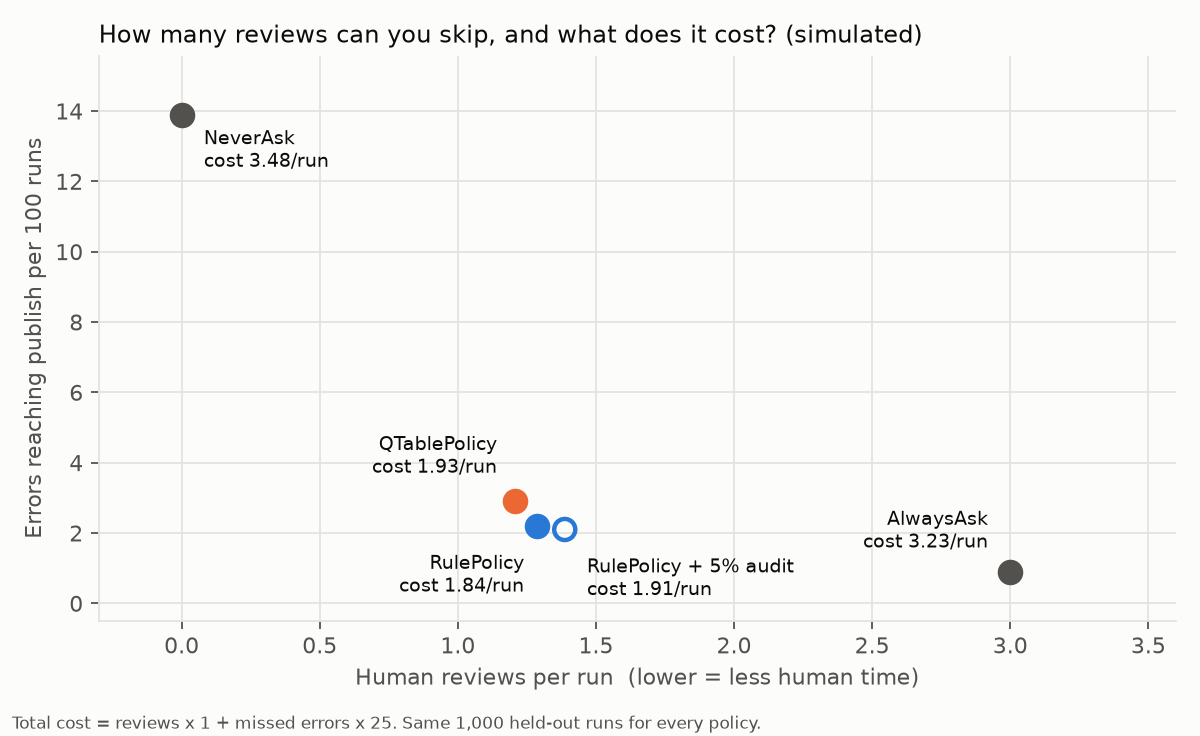
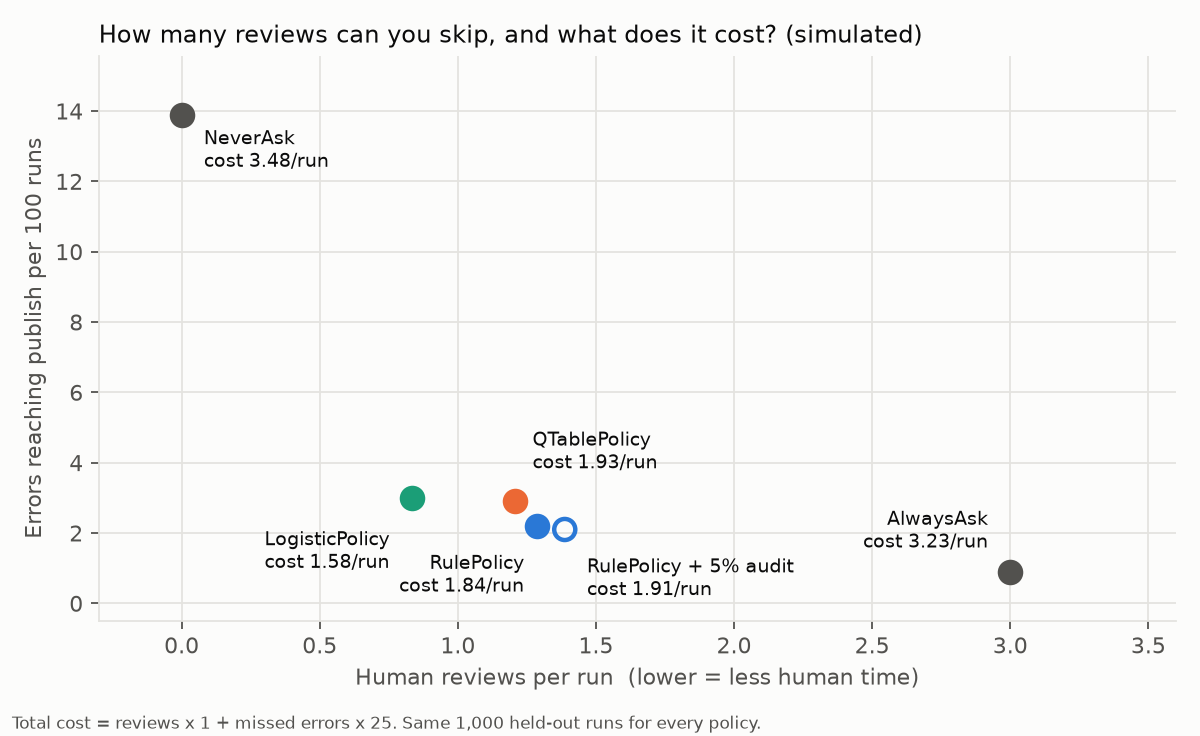
Add LogisticPolicy: per-item error probability with a cost threshold, pooled across gates (0.3.0)

Changed region(s): [[0.3083, 0.5625, 0.555, 0.6875], [0.2158, 0.7188, 0.3392, 0.7812]]

diff --git a/src/hitl_gate/policies.py b/src/hitl_gate/policies.py
@@ -4,6 +4,7 @@ from __future__ import annotations
 
 import bisect
 import json
+import math
 import random
 from collections import defaultdict
 from pathlib import Path
@@ -37,6 +38,19 @@ class NeverAsk:
 
     def decide(self, gate_id: str, features: dict) -> tuple[bool, str]:
         return False, "never ask"
+
+
+def _miss_label(r: DecisionRecord, count_downstream_errors: bool = True) -> bool | None:
+    """Training label shared by the fitted policies; ``None`` = not evidence either way.
+
+    A *miss* is a reviewed record the human changed, or — with ``count_downstream_errors`` —
+    any record (reviewed or auto-passed) that later failed downstream (rubber-stamp protection).
+    An un-reviewed auto pass with no downstream error is not evidence of correctness.
+    """
+    downstream = count_downstream_errors and bool(r.downstream_error)
+    if r.asked:
+        return bool(r.changed) or downstream
+    return True if downstream else None
 
 
 def _bucket(gate_id: str, features: dict, keys: Iterable[str]) -> tuple:
@@ -84,13 +98,9 @@ class RulePolicy:
             keys = sorted({k for r in records for k in r.features})
         stats: dict = defaultdict(lambda: [0, 0])
         for r in records:
-            downstream = count_downstream_errors and bool(r.downstream_error)
-            if r.asked:
-                miss = bool(r.changed) or downstream
-            elif downstream:
-                miss = True
-            else:
-                continue  # an un-reviewed auto pass is not evidence of correctness
+            miss = _miss_label(r, count_downstream_errors)
+            if miss is None:
+                continue
             s = stats[_bucket(r.gate_id, r.features, keys)]
             s[0] += 1
             s[1] += miss
@@ -217,3 +227,113 @@ class QTablePolicy:
         p.q = data["q"]
         p.n = data.get("n", {})  # files from 0.1.0 have no counts
         return p
+
+
+def _encode(gate_id: str, features: dict) -> dict:
+    """Sparse feature map: numbers stay numeric, everything else one-hot; plus a per-gate intercept."""
+    x = {"__gate__=" + gate_id: 1.0}
+    for k, v in features.items():
+        if isinstance(v, bool) or not isinstance(v, (int, float)):
+            x[f"{k}={v!r}"] = 1.0
+        else:
+            x[k] = float(v)
+    return x
+
+
+def _sigmoid(z: float) -> float:
+    if z >= 0:
+        return 1.0 / (1.0 + math.exp(-z))
+    e = math.exp(z)
+    return e / (1.0 + e)
+
+
+class LogisticPolicy:
+    """Per-item error probability (logistic regression) + a cost threshold.
+
+    Asks when ``p(miss) * miss_cost > review_cost``, i.e. ``p > threshold`` with
+    ``threshold = review_cost / miss_cost`` (a float, or a dict per gate_id).
+    Unlike :class:`RulePolicy`, it scores each item from all its features, so items in the same
+    bucket can be treated differently, and one model can be **pooled across gates**: shared
+    feature weights are learned from every gate, and each gate keeps its own intercept. A gate
+    with too few labelled samples (``min_gate_samples``) or never seen is always asked.
+
+    Pure Python (batch gradient descent, L2). Numeric features are standardised; non-numeric
+    and bool features are one-hot. Fine for the tens-of-thousands-of-records scale of review logs.
+    """
+
+    name = "logistic"
+
+    def __init__(self, weights: dict, scale: dict, threshold: float | dict, gate_counts: dict, min_gate_samples: int):
+        self.weights = weights  # feature -> weight, "__bias__" -> intercept
+        self.scale = scale  # numeric feature -> [mean, std]
+        self.threshold = threshold
+        self.gate_counts = gate_counts  # gate_id -> labelled samples seen in fit
+        self.min_gate_samples = min_gate_samples
+
+    @classmethod
+    def fit(
+        cls,
+        records: Iterable[DecisionRecord],
+        threshold: float | dict,
+        min_gate_samples: int = 0,
+        l2: float = 1e-3,
+        epochs: int = 300,
+        lr: float = 0.5,
+        count_downstream_errors: bool = True,
+    ) -> "LogisticPolicy":
+        """Fit from logged decisions, with the same miss label as :meth:`RulePolicy.fit`."""
+        X, y, counts = [], [], defaultdict(int)
+        for r in records:
+            miss = _miss_label(r, count_downstream_errors)
+            if miss is None:
+                continue
+            X.append(_encode(r.gate_id, r.features))
+            y.append(1.0 if miss else 0.0)
+            counts[r.gate_id] += 1
+        numeric = {k for x in X for k in x if "=" not in k}
+        scale = {}
+        for k in numeric:
+            vals = [x.get(k, 0.0) for x in X]
+            m = sum(vals) / len(vals)
+            sd = (sum((v - m) ** 2 for v in vals) / len(vals)) ** 0.5 or 1.0
+            scale[k] = [m, sd]
+        X = [{k: (v - scale[k][0]) / scale[k][1] if k in scale else v for k, v in x.items()} for x in X]
+        w: dict = defaultdict(float)
+        n = len(X) or 1
+        for _ in range(epochs):  # ponytail: full-batch GD in pure Python; swap in sklearn if logs reach millions
+            grad: dict = defaultdict(float)
+            for x, t in zip(X, y):
+                err = _sigmoid(w["__bias__"] + sum(w[k] * v for k, v in x.items())) - t
+                grad["__bias__"] += err
+                for k, v in x.items():
+                    grad[k] += err * v
+            for k, g in grad.items():
+                w[k] -= lr * (g / n + (l2 * w[k] if k != "__bias__" else 0.0))
+        return cls(dict(w), scale, threshold, dict(counts), min_gate_samples)
+
+    def proba(self, gate_id: str, features: dict) -> float:
+        x = _encode(gate_id, features)
+        z = self.weights.get("__bias__", 0.0)
+        for k, v in x.items():
+            if k in self.scale:
+                v = (v - self.scale[k][0]) / self.scale[k][1]
+            z += self.weights.get(k, 0.0) * v
+        return _sigmoid(z)
+
+    def decide(self, gate_id: str, features: dict) -> tuple[bool, str]:
+        n = self.gate_counts.get(gate_id, 0)
+        if n == 0 or n < self.min_gate_samples:
+            return True, f"insufficient evidence for gate (n={n})"
+        th = self.threshold[gate_id] if isinstance(self.threshold, dict) else self.threshold
+        p = self.proba(gate_id, features)
+        return (p > th), f"p(miss) {p:.2%} {'>' if p > th else '<='} threshold {th:.2%}"
+
+    def save(self, path: str | Path) -> None:
+        data = {"weights": self.weights, "scale": self.scale, "threshold": self.threshold,
+                "gate_counts": self.gate_counts, "min_gate_samples": self.min_gate_samples}
+        Path(path).write_text(json.dumps(data, indent=1), encoding="utf-8")
+
+    @classmethod
+    def load(cls, path: str | Path) -> "LogisticPolicy":
+        d = json.loads(Path(path).read_text(encoding="utf-8"))
+        return cls(d["weights"], d["scale"], d["threshold"], d["gate_counts"], d["min_gate_samples"])

diff --git a/tests/test_logistic.py b/tests/test_logistic.py
@@ -1,0 +1,51 @@
+import random
+
+from hitl_gate import DecisionRecord, LogisticPolicy, RulePolicy
+
+
+def _rec(gate, feats, changed, asked=True, downstream=None):
+    return DecisionRecord(run_id="r", gate_id=gate, features=feats, decision="ask", policy_name="always_ask",
+                          reason="", human_outcome=("edit" if changed else "approve") if asked else None,
+                          changed=changed if asked else None, downstream_error=downstream)
+
+
+def _logs(gate, n, seed):
+    """unmapped=0 → never wrong; each unmapped code adds risk. Same bucket for the rule (no unmapped key)."""
+    rng = random.Random(seed)
+    out = []
+    for _ in range(n):
+        unmapped = rng.choice([0, 0, 0, 0, 1, 2, 3])
+        out.append(_rec(gate, {"product": "A", "unmapped": unmapped}, rng.random() < 0.12 * unmapped))
+    return out
+
+
+def test_scores_items_inside_one_bucket():
+    logs = _logs("H3", 2000, 0)
+    pol = LogisticPolicy.fit(logs, threshold=0.05)
+    ask_clean, _ = pol.decide("H3", {"product": "A", "unmapped": 0})
+    ask_risky, reason = pol.decide("H3", {"product": "A", "unmapped": 3})
+    assert not ask_clean and ask_risky and "p(miss)" in reason
+    # a rule on the shared bucket can't separate them: overall miss rate is too high to auto-pass anything
+    rule = RulePolicy.fit(logs, keys=["product"], max_change_rate=0.05)
+    assert rule.decide("H3", {"product": "A", "unmapped": 0})[0]
+
+
+def test_pooled_gate_with_few_records_borrows_shared_weights():
+    logs = _logs("big", 2000, 1) + _logs("small", 15, 2)
+    pol = LogisticPolicy.fit(logs, threshold=0.05)
+    assert not pol.decide("small", {"product": "A", "unmapped": 0})[0]
+    assert pol.decide("small", {"product": "A", "unmapped": 3})[0]
+    strict = LogisticPolicy.fit(logs, threshold=0.05, min_gate_samples=50)
+    assert strict.decide("small", {"product": "A", "unmapped": 0})[0]
+
+
+def test_unseen_gate_asks_and_downstream_error_is_a_miss(tmp_path):
+    logs = _logs("H3", 1000, 3)
+    # rubber stamps: approved, then failed downstream → label is a miss
+    logs += [_rec("H3", {"product": "A", "unmapped": 0}, False, downstream=True) for _ in range(300)]
+    pol = LogisticPolicy.fit(logs, threshold={"H3": 0.05})
+    assert pol.decide("H3", {"product": "A", "unmapped": 0})[0]
+    assert pol.decide("never-seen", {"product": "A", "unmapped": 0})[0]
+    pol.save(tmp_path / "p.json")
+    again = LogisticPolicy.load(tmp_path / "p.json")
+    assert abs(again.proba("H3", {"product": "A", "unmapped": 1}) - pol.proba("H3", {"product": "A", "unmapped": 1})) < 1e-12

diff --git a/examples/document_pipeline/run.py b/examples/document_pipeline/run.py
@@ -28,7 +28,7 @@ from typing import Annotated, TypedDict
 from langgraph.checkpoint.memory import MemorySaver
 from langgraph.graph import END, START, StateGraph
 
-from hitl_gate import AlwaysAsk, DecisionLog, NeverAsk, QTablePolicy, RulePolicy, add_gated_review, merge_dicts
+from hitl_gate import AlwaysAsk, DecisionLog, LogisticPolicy, NeverAsk, QTablePolicy, RulePolicy, add_gated_review, merge_dicts
 from hitl_gate.sim import run_episode
 
 STEPS = ["extract", "classify", "compose"]
@@ -169,13 +169,13 @@ def plot(rows: list[dict], path: Path) -> None:
     import matplotlib.pyplot as plt
 
     surface, ink, ink2, grid = "#fcfcfb", "#0b0b0b", "#52514e", "#e4e3df"
-    color = {"AlwaysAsk": ink2, "NeverAsk": ink2, "RulePolicy": "#2a78d6", "RulePolicy + 5% audit": "#2a78d6", "QTablePolicy": "#eb6834"}
+    color = {"AlwaysAsk": ink2, "NeverAsk": ink2, "RulePolicy": "#2a78d6", "RulePolicy + 5% audit": "#2a78d6", "QTablePolicy": "#eb6834", "LogisticPolicy": "#1b9e77"}
     fig, ax = plt.subplots(figsize=(7.5, 4.6), dpi=160)
     fig.patch.set_facecolor(surface)
     ax.set_facecolor(surface)
     # label offsets (points) and alignment, hand-placed to avoid collisions
     place = {"AlwaysAsk": (-10, 8, "right"), "NeverAsk": (10, -6, "left"), "RulePolicy": (-6, -12, "right"),
-             "RulePolicy + 5% audit": (10, -12, "left"), "QTablePolicy": (-8, 10, "right")}
+             "RulePolicy + 5% audit": (10, -12, "left"), "QTablePolicy": (8, 12, "left"), "LogisticPolicy": (-10, -14, "right")}
     for r in rows:
         hollow = "audit" in r["name"]
         y = r["missed"] * 100
@@ -215,6 +215,9 @@ def main(n_collect: int = 500, n_eval: int = 1000, q_episodes: int = 60_000) -> 
     print("\nfitted RulePolicy (min_count=30, max_change_rate=2%):")
     print(rule.describe())
 
+    logit = LogisticPolicy.fit(collected.records, threshold=REVIEW_COST / MISS_COST)
+    print(f"fitted LogisticPolicy (threshold = review/miss cost = {REVIEW_COST / MISS_COST:.0%})")
+
     print(f"\nphase 2: training QTablePolicy on {q_episodes} mirror episodes...")
     qpol = train_qtable(q_episodes, seed=1)
 
@@ -224,6 +227,7 @@ def main(n_collect: int = 500, n_eval: int = 1000, q_episodes: int = 60_000) -> 
         evaluate("AlwaysAsk", AlwaysAsk(), held_out),
         evaluate("RulePolicy", rule, held_out),
         evaluate("RulePolicy + 5% audit", rule, held_out, audit_rate=0.05),
+        evaluate("LogisticPolicy", logit, held_out),
         evaluate("QTablePolicy", qpol, held_out),
         evaluate("NeverAsk", NeverAsk(), held_out),
     ]

diff --git a/src/hitl_gate/__init__.py b/src/hitl_gate/__init__.py
@@ -2,7 +2,7 @@
 
 from .gate import GateDecider, HITLState, add_gated_review, make_record, merge_dicts
 from .log import DecisionLog, DecisionRecord
-from .policies import AlwaysAsk, NeverAsk, Policy, QTablePolicy, RulePolicy
+from .policies import AlwaysAsk, LogisticPolicy, NeverAsk, Policy, QTablePolicy, RulePolicy
 from .tools import GatedTool, ToolGate, gated_tool
 
 __all__ = [
@@ -12,6 +12,7 @@ __all__ = [
     "GateDecider",
     "GatedTool",
     "HITLState",
+    "LogisticPolicy",
     "NeverAsk",
     "Policy",
     "QTablePolicy",
@@ -22,4 +23,4 @@ __all__ = [
     "make_record",
     "merge_dicts",
 ]
-__version__ = "0.2.0"
+__version__ = "0.3.0"

diff --git a/README.ko.md b/README.ko.md
@@ -12,6 +12,7 @@
 
 - **AlwaysAsk**는 실행당 3.00건을 사람에게 보내고, 100회 실행당 0.9건의 오류를 통과시킵니다.
 - 로그 500회로 학습한 **RulePolicy**는 실행당 1.29회만 묻고(**검토 57% 감소**) 100회당 2.2건의 오류를 통과시키며, 총비용은 실행당 3.23에서 1.84로 줄어듭니다.
+- 같은 로그로 학습한 **LogisticPolicy**(건별 오류 확률이 `검토 비용 / 놓침 비용` = 4%를 넘으면 묻기)는 실행당 0.83회만 묻고(**검토 72% 감소**) 100회당 3.0건을 통과시키며, 총비용이 가장 낮습니다: 실행당 1.84 → **1.58**.
 - **NeverAsk**는 100회당 13.9건의 오류를 통과시킵니다. 검토를 아예 없애는 건 답이 아닙니다.
 
 ## 왜 필요한가
@@ -126,7 +127,7 @@ flowchart LR
     G -. 기록 .-> L[(DecisionLog)]
     R -. 기록 + 결과 .-> L
     T -. 다운스트림 오류 .-> L
-    L -- RulePolicy.fit / Q-learning --> P[더 나은 정책] --> G
+    L -- RulePolicy / LogisticPolicy.fit, Q-learning --> P[더 나은 정책] --> G
 ```
 
 `add_gated_review`는 `source`와 `target` 사이에 노드 두 개를 넣습니다.
@@ -147,6 +148,7 @@ flowchart LR
 | `AlwaysAsk` | 항상 (현재의 기본값) | — |
 | `NeverAsk` | 절대 안 물음 (베이스라인 전용) | — |
 | `RulePolicy.fit(records, keys, min_count=30, max_change_rate=0.02)` | 버킷 `(gate_id, 피처 값)`의 검토 샘플이 `min_count` 미만이거나 **또는** miss 비율이 `max_change_rate`를 넘을 때. 모르는 버킷 → ask. `describe()`가 규칙을 출력. | 기록된 검토 |
+| `LogisticPolicy.fit(records, threshold, min_gate_samples=0)` | `p(miss) > threshold`일 때. `p`는 항목의 모든 피처(숫자는 표준화, 나머지는 원-핫)와 게이트별 절편으로 만든 로지스틱 회귀이고, `threshold = 검토 비용 / 놓침 비용`(float 또는 게이트별 dict)으로 둡니다. 모델 하나를 **여러 게이트가 함께 학습**할 수 있어, 건수가 적은 게이트도 다른 게이트가 배운 것을 빌려 씁니다. 처음 보는 게이트나 `min_gate_samples` 미만 → ask. `proba()`, JSON `save()`/`load()`. 순수 파이썬, 추가 의존성 없음. | 기록된 검토 (`RulePolicy`와 같은 놓침 라벨) |
 | `QTablePolicy` | `(gate_id, 이산화된 피처)`에서 `Q(ask) >= Q(auto)`일 때. 동점과 처음 보는 상태 → ask. 학습용 epsilon-greedy `act()`, `learn_episode()`, JSON `save()`/`load()`. | 직접 정의한 보상 (예: `-review_cost`, `-error_cost`) |
 
 `RulePolicy` 버킷은 `keys` 중 그 게이트의 피처에 실제로 있는 키만 씁니다. 그래서 피처가 서로 다른 게이트들이 `keys` 목록 하나를 같이 써도 되고, `describe()`는 게이트마다 자기 조건만 보여 줍니다.
@@ -192,7 +194,7 @@ auto 통과는 gate 노드가 기록합니다. 물어본 항목은 사람이 답
 
 - **시뮬레이션 결과는 가정에 좌우됩니다.** 그래프는 임의로 정한 오류율, 적발률(90%), 비용(검토 1회 = 1, 놓친 오류 1건 = 25)을 쓰는 장난감 파이프라인에서 나왔습니다. 여러분의 수치는 다를 것입니다. 먼저 실제 트래픽에서 shadow 모드로 돌려 보세요.
 - **법적·계약상 필수인 승인은 절대 게이트하지 마세요.** 사람이 반드시 서명해야 한다면 `interrupt()`를 무조건 유지하세요.
-- **피처는 이산적이어야 합니다.** 버킷과 Q-table은 피처당 몇 개의 값만 다룰 수 있습니다. 연속 신호는 `featurize`에서 구간화하세요(또는 `QTablePolicy(bins=...)`). 피처가 너무 많으면 버킷당 샘플이 부족해 모든 것이 "ask"로 남는데, 이는 안전한 방향의 실패입니다.
+- **버킷과 Q-table은 피처가 이산적이어야 합니다**(`LogisticPolicy`는 숫자 피처를 그대로 받습니다). 버킷과 Q-table은 피처당 몇 개의 값만 다룰 수 있습니다. 연속 신호는 `featurize`에서 구간화하세요(또는 `QTablePolicy(bins=...)`). 피처가 너무 많으면 버킷당 샘플이 부족해 모든 것이 "ask"로 남는데, 이는 안전한 방향의 실패입니다.
 - **테이블 RL은 의도적으로 단순합니다.** `QTablePolicy`는 투명한 베이스라인이지 최신 학습기가 아닙니다. 예제에서는 시뮬레이션을 순수 파이썬으로 옮긴 빠른 미러에서 학습하며(고정 `alpha=0.02`), 규칙 정책을 이기지 못합니다.
 - `retry`와 `escalate`는 기록되지만 라우팅은 `review -> target`으로 고정입니다. 재시도 루프가 필요하면 `GateDecider`로 엣지를 직접 연결하세요.
 - **도구 호출: 병렬 게이트 호출은 호출마다 별도 task가 필요합니다.** `create_agent`와 `create_react_agent`는 이미 `Send`로 호출을 하나씩 보냅니다. 일반 `ToolNode`가 한 메시지에서 게이트된 호출 여러 개를 받으면 한 task 안의 스레드에서 실행되는데, interrupt는 순서로 매칭되므로 경쟁 상태가 생깁니다. `Send`나 미들웨어(배치 interrupt 하나)를 쓰세요.

diff --git a/README.md b/README.md
@@ -12,6 +12,7 @@ In the bundled simulated document pipeline ([`examples/document_pipeline`](examp
 
 - **AlwaysAsk** sends 3.00 items per run to a human and lets 0.9 errors per 100 runs through.
 - A **RulePolicy** fitted from 500 logged runs asks 1.29 times per run (**57% fewer reviews**) at 2.2 errors per 100 runs, cutting total cost from 3.23 to 1.84 per run.
+- A **LogisticPolicy** (per-item error probability, asks when it exceeds `review_cost / miss_cost` = 4%) fitted on the same logs asks 0.83 times per run (**72% fewer reviews**) at 3.0 errors per 100 runs, the lowest total cost: 1.84 → **1.58** per run.
 - **NeverAsk** lets 13.9 errors per 100 runs through. Removing review entirely is not the answer.
 
 ## Why
@@ -126,7 +127,7 @@ flowchart LR
     G -. record .-> L[(DecisionLog)]
     R -. record + outcome .-> L
     T -. downstream errors .-> L
-    L -- RulePolicy.fit / Q-learning --> P[better policy] --> G
+    L -- RulePolicy / LogisticPolicy.fit, Q-learning --> P[better policy] --> G
 ```
 
 `add_gated_review` inserts two nodes between `source` and `target`:
@@ -147,6 +148,7 @@ If you wire graphs yourself, use `GateDecider(policy, mode, audit_rate, seed)` d
 | `AlwaysAsk` | always (today's default) | — |
 | `NeverAsk` | never (baseline only) | — |
 | `RulePolicy.fit(records, keys, min_count=30, max_change_rate=0.02)` | the bucket `(gate_id, feature values)` has fewer than `min_count` reviewed samples **or** a miss rate above `max_change_rate`. Unknown buckets → ask. `describe()` prints the rules. | logged reviews |
+| `LogisticPolicy.fit(records, threshold, min_gate_samples=0)` | `p(miss) > threshold`. `p` is a logistic regression over all of the item's features (numbers standardised, everything else one-hot) plus a per-gate intercept; set `threshold = review_cost / miss_cost` (float, or dict per gate). One model can be **pooled across gates**, so a low-volume gate borrows what high-volume gates learned. Unseen gates, or gates under `min_gate_samples` → ask. `proba()`, `save()`/`load()` JSON. Pure Python, no extra dependency. | logged reviews (same miss label as `RulePolicy`) |
 | `QTablePolicy` | `Q(ask) >= Q(auto)` for `(gate_id, discretized features)`. Ties and unseen states → ask. `act()` for epsilon-greedy training, `learn_episode()`, `save()`/`load()` JSON. | your reward signal (e.g. `-review_cost`, `-error_cost`) |
 
 `RulePolicy` buckets only use the `keys` a gate's features actually contain, so one `keys` list can span gates with different features, and `describe()` shows each gate's own conditions.
@@ -192,7 +194,7 @@ Auto passes are logged by the gate node. Asked items are logged once the human a
 
 - **Simulated results depend on their assumptions.** The plot comes from a toy pipeline with made-up error rates, catch rate (90%) and costs (1 review = 1, 1 missed error = 25). Your numbers will differ. Run shadow mode on your own traffic first.
 - **Never gate legally or contractually required approvals.** If a human must sign off, keep `interrupt()` unconditional.
-- **Features must be discrete.** Buckets and Q-tables need a handful of values per feature. Bucket continuous signals in `featurize` (or use `QTablePolicy(bins=...)`). Too many features means too few samples per bucket, so everything stays "ask", which is the safe failure mode.
+- **Features must be discrete for buckets and Q-tables** (`LogisticPolicy` takes numeric features as they are). Buckets and Q-tables need a handful of values per feature. Bucket continuous signals in `featurize` (or use `QTablePolicy(bins=...)`). Too many features means too few samples per bucket, so everything stays "ask", which is the safe failure mode.
 - **Tabular RL is simple by design.** `QTablePolicy` is a transparent baseline, not a state-of-the-art learner. In the example it trains on a fast pure-Python mirror of the simulation (fixed `alpha=0.02`) and does not beat the rule policy.
 - `retry` and `escalate` are logged, but routing stays `review -> target`. For retry loops, wire your own edges using `GateDecider`.
 - **Tool calls: parallel gated calls need one task per call.** `create_agent` and `create_react_agent` already dispatch each call with `Send`. A plain `ToolNode` that receives several gated calls in one message runs them in threads inside one task, where interrupts are matched by order, which is racy. Use `Send`, or the middleware (one batched interrupt).

diff --git a/CHANGELOG.md b/CHANGELOG.md
@@ -1,5 +1,11 @@
 # Changelog
 
+## 0.3.0
+
+- **`LogisticPolicy`.** Per-item error probability (pure-Python logistic regression over all features, numbers standardised, others one-hot, per-gate intercept) plus a cost threshold: ask when `p(miss) > review_cost / miss_cost` (float or per-gate dict). One model can be pooled across gates; unseen gates or gates under `min_gate_samples` are asked. `proba()`, JSON `save()`/`load()`. Same miss label as `RulePolicy` (changed, or failed downstream).
+- `RulePolicy.fit` and `LogisticPolicy.fit` share the miss-label helper; behaviour unchanged.
+- `examples/document_pipeline` evaluates `LogisticPolicy`: 0.83 reviews/run, 3.0 missed per 100 runs, cost 1.58 (rule: 1.29, 2.2, 1.84).
+
 ## 0.2.0
 
 - **Tool-call approval.** New `gated_tool(tool, *, policy, log, gate_id=None, featurize=lambda name, args: {}, mode="live", audit_rate=0.0, seed=None, allowed_decisions=..., edit_notice=...)` wraps any LangChain tool so each call is gated: auto runs it, ask interrupts with a LangChain `HITLRequest`-shaped payload and accepts `{"decisions": [approve | edit | reject | respond]}`. Works in `ToolNode`, hand-built graphs and `create_agent`, with only `langgraph` installed. Sync and async.
